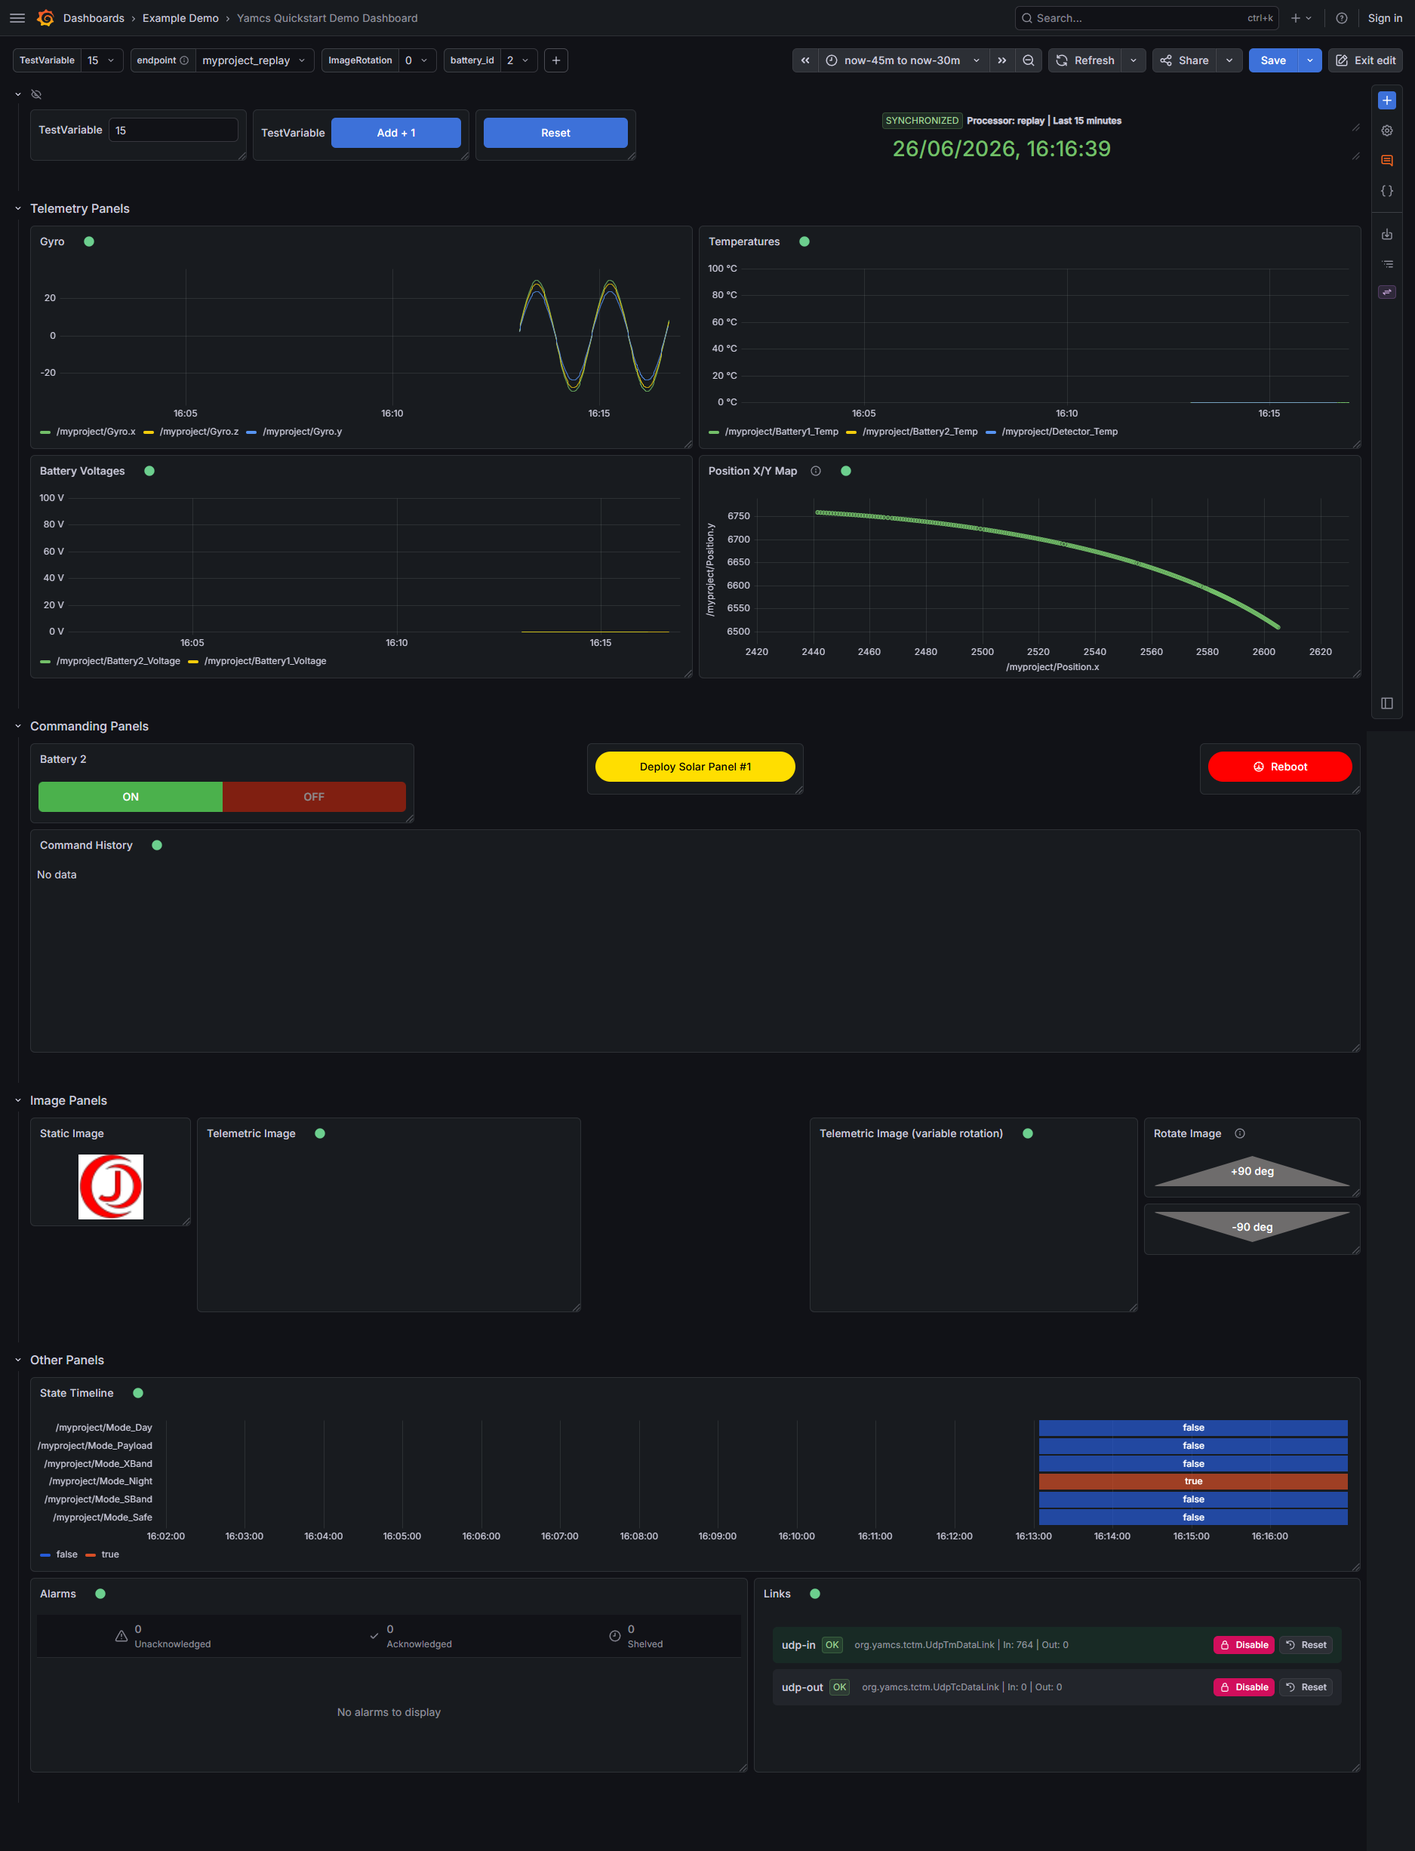
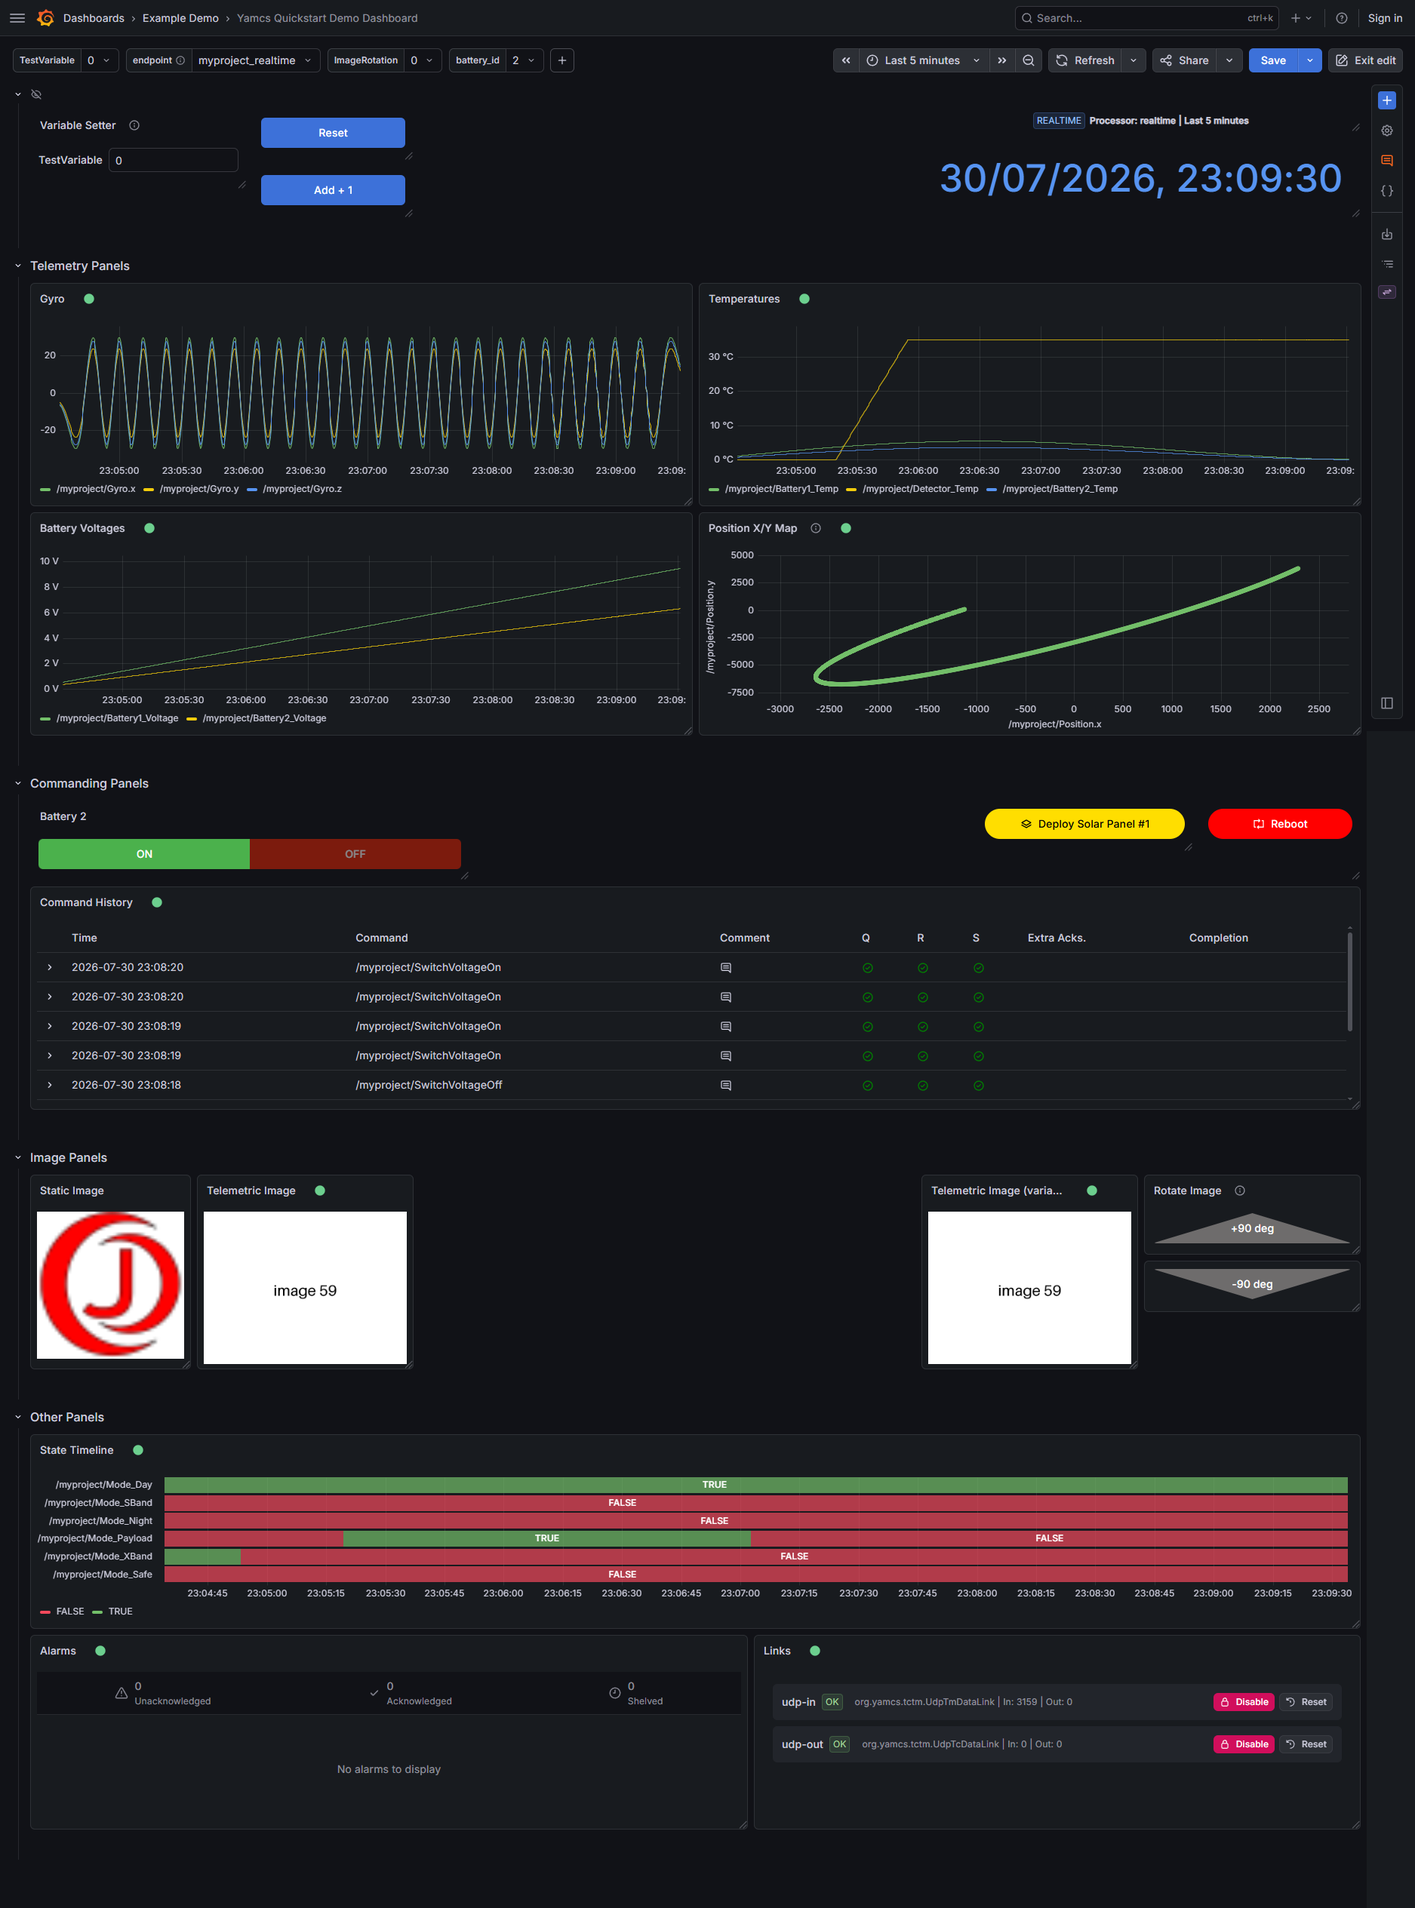
docs: update images and wording

diff --git a/src/pages/HowToUse.tsx b/src/pages/HowToUse.tsx
@@ -1,10 +1,34 @@
+import { css } from '@emotion/css';
+import { GrafanaTheme2 } from '@grafana/data';
 import { PluginPage } from '@grafana/runtime';
-import { Card, Alert, Text } from '@grafana/ui';
+import { Card, Alert, Text, Stack, useStyles2 } from '@grafana/ui';
 import React from 'react';
-import StepOneImage from '../img/how-to-use/step-1.png';
-import StepTwoImage from '../img/how-to-use/step-2.png';
+import { QueryCategoryBadge } from '../datasource/components/QueryCategoryBadge';
+import { QueryCategory } from '../datasource/components/constants';
+import ConfigurationImage from '../img/how-to-use/configuration.png';
+
+const getStyles = (theme: GrafanaTheme2) => ({
+    queryList: css`
+        display: grid;
+        gap: ${theme.spacing(2)};
+        margin-top: ${theme.spacing(1)};
+        padding-left: ${theme.spacing(3)};
+    `,
+    nestedList: css`
+        display: grid;
+        gap: ${theme.spacing(1)};
+        margin-top: ${theme.spacing(1)};
+        padding-left: ${theme.spacing(4)};
+    `,
+    image: css`
+        display: block;
+        margin: ${theme.spacing(2.5)} auto;
+    `,
+});
 
 function HowToUse() {
+    const styles = useStyles2(getStyles);
+
     return (
         <PluginPage>
             <p>
@@ -22,8 +46,6 @@ function HowToUse() {
                     <Text color="primary">Yamcs Datasource</Text> and select it.
                 </Card.Description>
             </Card>
-
-            <img src={StepOneImage} width={1200} style={{ display: 'block', margin: '20px auto' }} />
 
             <Card>
                 <Card.Heading>Step 2: Configure the Datasource</Card.Heading>
@@ -47,7 +69,7 @@ function HowToUse() {
                 </Card.Description>
             </Card>
 
-            <img src={StepTwoImage} width={1200} style={{ display: 'block', margin: '20px auto' }} />
+            <img src={ConfigurationImage} width={1200} className={styles.image} />
 
             <Alert title="Important" severity="info">
                 If you are manually running the plugin through the plugin repository Grafana docker container, to refer
@@ -59,14 +81,14 @@ function HowToUse() {
                 <code>host.docker.internal</code> for Windows, and <code>172.17.0.1</code> for Linux.
                 <br />
                 <br />
-                If you are using the plugin in a custom Docker environement, use the proper hostname.
+                If you are using the plugin in a custom Docker environment, use the proper hostname.
             </Alert>
 
             <Card>
                 <Card.Heading>Step 3: Create a Dashboard</Card.Heading>
                 <Card.Description>
                     Go to <Text color="info">Dashboards &gt; Create Dashboard</Text>, then{' '}
-                    <Text color="info">Create Visualization</Text>. Select <Text color="primary">Yamcs Datasource</Text>{' '}
+                    <Text color="info">Create Visualization</Text>. Select <Text color="primary">JAOPS Yamcs Datasource</Text>{' '}
                     as your data source.
                 </Card.Description>
             </Card>
@@ -74,17 +96,125 @@ function HowToUse() {
             <Card>
                 <Card.Heading>Step 4: Start Querying</Card.Heading>
                 <Card.Description>
-                    <p>Choose a query type:</p>
-                    <ul>
+                    <p>Choose a query type, search for a parameter and start querying data.</p>
+                    <ul className={styles.queryList}>
                         <li>
-                            <Text color="primary">Parameter Query:</Text> Fetch real-time or historical telemetry data
-                            (Graph, Single value, Discrete value...).
+                            <Stack direction="row" alignItems="center" gap={1}>
+                                <QueryCategoryBadge category={QueryCategory.PARAMETER} />
+                                <Text color="primary">Parameter Query</Text>
+                                Fetch real-time or historical telemetry data.
+                            </Stack>
+                            <ul className={styles.nestedList}>
+                                <li>
+                                    <Text color="primary">Graph:</Text> Queries historical data over a time range and
+                                    subscribes to live data. Used mainly for time series and plotting numerical data over
+                                    time. Optional minimum and maximum fields can be added for richer graph panels.
+                                </li>
+                                <li>
+                                    <Text color="primary">Single Value:</Text> Subscribes to the latest value without
+                                    querying historical data. It can still display the current Yamcs value even when that
+                                    value was generated earlier. Used mainly for stat or text-style panels.
+                                </li>
+                                <li>
+                                    <Text color="primary">Discrete State:</Text> Queries historical ranges and subscribes
+                                    to live data for discrete values such as strings, booleans, enumerations, and
+                                    integers. Used mainly for state timeline panels and supports automatic colors.
+                                </li>
+                            </ul>
                         </li>
                         <li>
-                            <Text color="primary">Event Query:</Text> Retrieve system events from Yamcs.
+                            <Stack direction="row" alignItems="center" gap={1}>
+                                <QueryCategoryBadge category={QueryCategory.TIMELINE} />
+                                <Text color="primary">Timeline Query</Text>
+                                Retrieve time-based Yamcs information.
+                            </Stack>
+                            <ul className={styles.nestedList}>
+                                <li>
+                                    <Text color="primary">Time:</Text> Displays the current Yamcs processor time and
+                                    replay speed. Used mainly with the Yamcs Time Sync panel to synchronize Grafana time
+                                    with Yamcs time.
+                                </li>
+                                <li>
+                                    <Text color="primary">Events:</Text> Lists past events over the selected time range
+                                    and subscribes to live events from Yamcs.
+                                </li>
+                            </ul>
+                        </li>
+                        <li>
+                            <Stack direction="row" alignItems="center" gap={1}>
+                                <QueryCategoryBadge category={QueryCategory.IMAGE} />
+                                <Text color="primary">Image Query</Text>
+                                Visualize images from Yamcs telemetry.
+                            </Stack>
+                            <ul className={styles.nestedList}>
+                                <li>
+                                    <Text color="primary">Image:</Text> Subscribes to an image parameter and displays the
+                                    latest image data. Used mainly with the Telemetric Image Panel.
+                                </li>
+                            </ul>
+                        </li>
+                        <li>
+                            <Stack direction="row" alignItems="center" gap={1}>
+                                <QueryCategoryBadge category={QueryCategory.COMMANDING} />
+                                <Text color="primary">Commanding Query</Text>
+                                Send commands and inspect command execution.
+                            </Stack>
+                            <ul className={styles.nestedList}>
+                                <li>
+                                    <Text color="primary">Commanding:</Text> Loads command metadata for the selected Yamcs
+                                    command so the Commanding Panel can render configurable command controls.
+                                </li>
+                                <li>
+                                    <Text color="primary">Command History:</Text> Lists command history over the selected
+                                    time range and subscribes to live command history updates.
+                                </li>
+                            </ul>
+                        </li>
+                        <li>
+                            <Stack direction="row" alignItems="center" gap={1}>
+                                <QueryCategoryBadge category={QueryCategory.ALARMS} />
+                                <Text color="primary">Alarm Query</Text>
+                                Monitor active Yamcs alarms.
+                            </Stack>
+                            <ul className={styles.nestedList}>
+                                <li>
+                                    <Text color="primary">Alarms:</Text> Monitors active Yamcs alarms and receives live
+                                    alarm updates. Used mainly with the Alarms Panel.
+                                </li>
+                            </ul>
+                        </li>
+                        <li>
+                            <Stack direction="row" alignItems="center" gap={1}>
+                                <QueryCategoryBadge category={QueryCategory.LINKS} />
+                                <Text color="primary">Links Query</Text>
+                                View and manage Yamcs data links.
+                            </Stack>
+                            <ul className={styles.nestedList}>
+                                <li>
+                                    <Text color="primary">Links:</Text> Lists Yamcs data links and subscribes to live link
+                                    updates. Used mainly with the Links Panel to inspect, enable, and disable links.
+                                </li>
+                            </ul>
+                        </li>
+                        <li>
+                            <Stack direction="row" alignItems="center" gap={1}>
+                                <QueryCategoryBadge category={QueryCategory.DEBUG} />
+                                <Text color="primary">Debug Query</Text>
+                                These query types are available when debug mode is enabled.
+                            </Stack>
+
+                            <ul className={styles.nestedList}>
+                                <li>
+                                    <Text color="primary">Endpoint Stream Demands:</Text> Shows which Grafana stream paths
+                                    are currently demanding Yamcs parameters from an endpoint.
+                                </li>
+                                <li>
+                                    <Text color="primary">Yamcs Subscriptions:</Text> Shows the active Yamcs parameter
+                                    subscriptions held by the endpoint.
+                                </li>
+                            </ul>
                         </li>
                     </ul>
-                    <p>Search for a parameter and start querying data.</p>
                 </Card.Description>
             </Card>
 

diff --git a/src/datasource/components/QueryTypeEditor.tsx b/src/datasource/components/QueryTypeEditor.tsx
@@ -1,9 +1,9 @@
-// eslint-disable-next-line no-restricted-imports
-import { Badge, InlineField, Select, Stack } from '@grafana/ui';
+import { InlineField, Select, Stack } from '@grafana/ui';
 import { QueryType } from '../types';
 import React, { useEffect } from 'react';
 import { QueryCategory, QueryEditorModelProps, QueryOptions } from './constants';
 import { ParameterQuery } from './ParameterQuery';
+import { QueryCategoryBadge } from './QueryCategoryBadge';
 
 export function QueryTypeEditor(props: QueryEditorModelProps) {
     const { query, onChange, datasource } = props;
@@ -18,7 +18,6 @@ export function QueryTypeEditor(props: QueryEditorModelProps) {
         if (!query.type) {
             onChange({ ...query, type: QueryType.PLOT });
         }
-        // eslint-disable-next-line react-hooks/exhaustive-deps
     }, []);
 
     const queryTypeInfo = QueryOptions.find((o) => o.value === (query.type ?? QueryType.PLOT));
@@ -26,27 +25,6 @@ export function QueryTypeEditor(props: QueryEditorModelProps) {
         ? QueryOptions
         : QueryOptions.filter((o) => o.category !== QueryCategory.DEBUG);
     const selectedQueryTypeOption = queryOptions.find((o) => o.value === (query.type ?? QueryType.PLOT));
-
-    function getBadgeCategory(category: any): React.ReactNode {
-        switch (category) {
-            case QueryCategory.PARAMETER:
-                return <Badge color="blue" text="Parameter" />;
-            case QueryCategory.TIMELINE:
-                return <Badge color="purple" text="Timeline" />;
-            case QueryCategory.IMAGE:
-                return <Badge color="green" text="Image" />;
-            case QueryCategory.COMMANDING:
-                return <Badge color="red" text="Commanding" />;
-            case QueryCategory.ALARMS:
-                return <Badge color="orange" text="Alarm" />;
-            case QueryCategory.LINKS:
-                return <Badge color="blue" text="Links" />;
-            case QueryCategory.DEBUG:
-                return <Badge color="orange" text="Debug" />;
-            default:
-                return <Badge color="red" text="Unknown" />;
-        }
-    }
 
     return (
         <>
@@ -62,7 +40,7 @@ export function QueryTypeEditor(props: QueryEditorModelProps) {
                         formatOptionLabel={(value: any) => (
                             <Stack direction="row" justifyContent="space-between">
                                 <span>{value.label}</span>
-                                <span style={{ zIndex: 212 }}>{getBadgeCategory(value.category)}</span>
+                                <span style={{ zIndex: 212 }}>{<QueryCategoryBadge category={value.category} />}</span>
                             </Stack>
                         )}
                         data-testid="jaops-query-type-select"

diff --git a/src/pages/Commanding.tsx b/src/pages/Commanding.tsx
@@ -26,7 +26,7 @@ function CommandingPanelSetup() {
                     <span data-testid="jaops-setup-page-commanding">Step 2: Choose Commanding Query Type</span>
                 </Card.Heading>
                 <Card.Description>
-                    In the panel&quot;s query settings, select <Text color="primary">Commanding</Text> as the query
+                    In the panel{"'"}s query settings, select <Text color="primary">Commanding</Text> as the query
                     type. Then, search for your desired command.
                 </Card.Description>
             </Card>
@@ -34,7 +34,7 @@ function CommandingPanelSetup() {
             <Card>
                 <Card.Heading>Step 3: Configure the Commanding Panel</Card.Heading>
                 <Card.Description>
-                    Once you&quot;ve selected your command, choose <Text color="primary">Yamcs Commanding Panel</Text>{' '}
+                    Once you{"'"}ve selected your command, choose <Text color="primary">Yamcs Commanding Panel</Text>{' '}
                     as the visualization type. You will be presented with a form to configure the button and appearance
                     of your panel.
                 </Card.Description>

diff --git a/src/datasource/components/QueryCategoryBadge.tsx b/src/datasource/components/QueryCategoryBadge.tsx
@@ -1,0 +1,28 @@
+import { Badge } from '@grafana/ui';
+import React from 'react';
+import { QueryCategory } from './constants';
+
+interface Props {
+    category: QueryCategory;
+}
+
+export function QueryCategoryBadge({ category }: Props): React.ReactNode {
+    switch (category) {
+        case QueryCategory.PARAMETER:
+            return <Badge color="blue" text="Parameter" />;
+        case QueryCategory.TIMELINE:
+            return <Badge color="purple" text="Timeline" />;
+        case QueryCategory.IMAGE:
+            return <Badge color="green" text="Image" />;
+        case QueryCategory.COMMANDING:
+            return <Badge color="red" text="Commanding" />;
+        case QueryCategory.ALARMS:
+            return <Badge color="orange" text="Alarm" />;
+        case QueryCategory.LINKS:
+            return <Badge color="blue" text="Links" />;
+        case QueryCategory.DEBUG:
+            return <Badge color="orange" text="Debug" />;
+        default:
+            return <Badge color="red" text="Unknown" />;
+    }
+}

diff --git a/src/README.md b/src/README.md
@@ -5,7 +5,7 @@
 <h1 align="center">Grafana Plugin for the Yamcs Mission Control Software</h1>
 
 <p align="center">
-  A Grafana plugin to directly connect to the <a href="https://yamcs.org/">Yamcs</a> server, display telemetry and send commands.
+  A comprehensive Grafana plugin to connect to <a href="https://yamcs.org/">Yamcs</a> servers for real-time telemetry visualization and commanding capabilities. Designed for mission control centers, aerospace applications and beyond.
 </p>
 
 <p align="center">

diff --git a/README.md b/README.md
@@ -15,7 +15,7 @@
 <h1 align="center">Grafana Plugin for the Yamcs Mission Control Software</h1>
 
 <p align="center">
-  A Grafana plugin to directly connect to the Yamcs server, display telemetry and send commands.
+  A comprehensive Grafana plugin to connect to <a href="https://yamcs.org/">Yamcs</a> servers for real-time telemetry visualization and commanding capabilities. Designed for mission control centers, aerospace applications and beyond.
 </p>
 
 <p align="center">

diff --git a/SETUP_INSTRUCTIONS.md b/SETUP_INSTRUCTIONS.md
@@ -158,7 +158,7 @@ That's it, you should have a grafana instance running at port `3000`, head insid
     pnpm run test:ci
     ```
 
-5. Run the E2E tests (using Cypress)
+5. Run the E2E tests (using Playwright)
 
     ```bash
     # Spins up a Grafana instance first that we tests against
